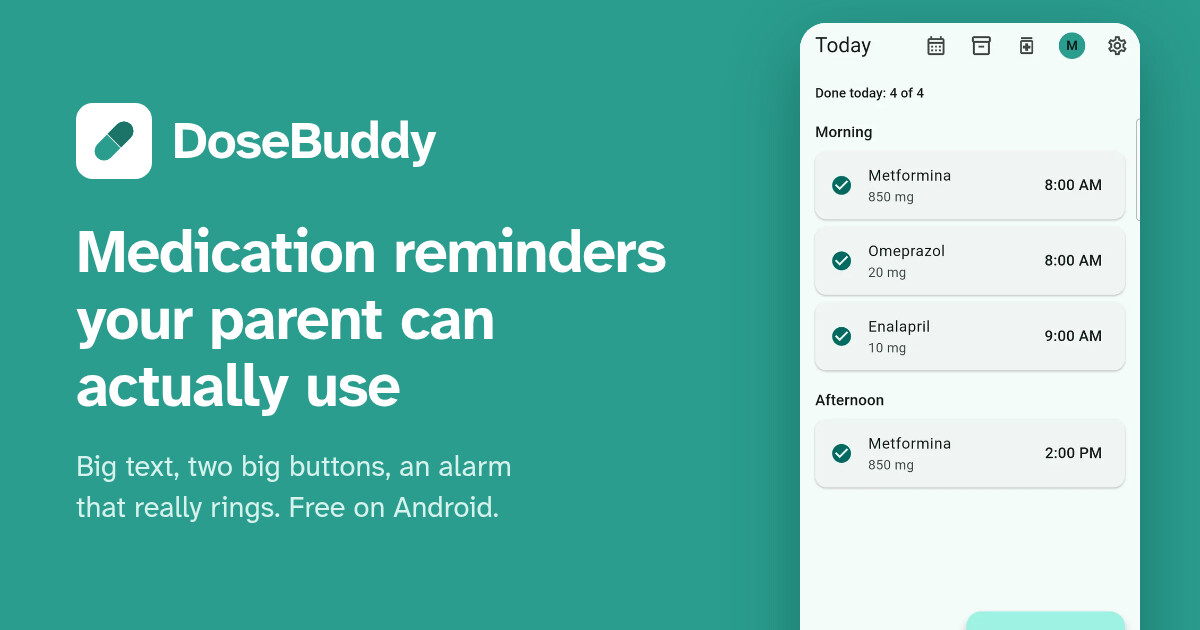
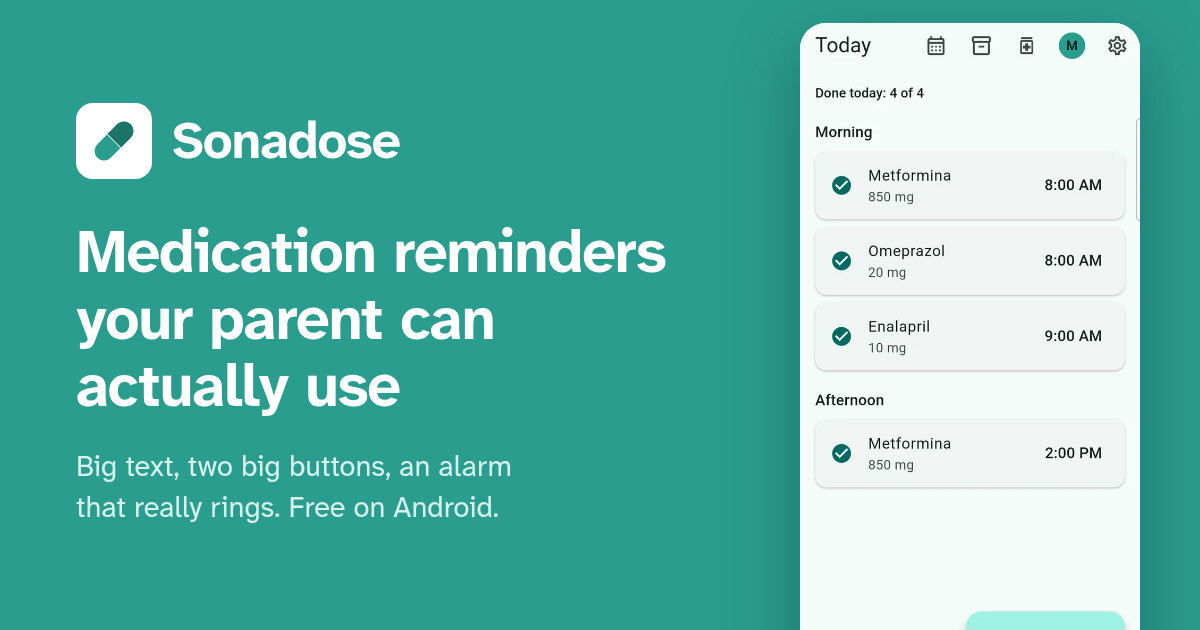
Finish the rename: what still said DoseBuddy in the present tense
The rebrand shipped, and these were left behind. Sorted by whether the old
name was a claim about now or a record of then — the first kind is corrected,
the second kept.

Corrected, because they were false today:

  404.html          title, brand and both language links, live on the site
  img/mark.svg      <title> and aria-label — the logo on every page, and the
                    name a screen reader reads out
  css/site.css      the design system's own header, name and domain
  js/ui.js          the usage example for the dormant video facade, which is
                    copied verbatim when a video is finally added
  api/app/main.py   module docstring and the OpenAPI title
  deploy/README.md  the file map named conf.d/10-dosebuddyapp.conf, which has
                    not existed since the rename, and 20-api.conf's hostname
  check-cert.sh     usage examples pointed at a host that no longer resolves,
  init-cert.sh      so a copy-paste failed; same for the PREPARE_ONLY hint

  docs/v1.1-api-contract.md  §0 gave the base as api.dosebuddyapp.com, retired
                    on 2026-08-21. The app track had already moved apiBaseUrl,
                    so nothing was broken by it — but this is the seam document
                    between the two tracks and it named a dead host. Recorded
                    as edition 15; the contract itself does not change.

Left alone, because they are true about the past: the migration runbook in
[…]

Changed region(s): [[0.1233, 0.181, 0.37, 0.2714]]

diff --git a/404.html b/404.html
@@ -3,7 +3,7 @@
 <head>
 <meta charset="utf-8">
 <meta name="viewport" content="width=device-width, initial-scale=1">
-<title>Page not found - DoseBuddy</title>
+<title>Page not found - Sonadose</title>
 <meta name="robots" content="noindex">
 <link rel="icon" href="/img/mark.svg" type="image/svg+xml">
 <meta name="theme-color" content="#2a9d8f">
@@ -15,7 +15,7 @@
   <div class="wrap">
     <a class="brand" href="/">
       <img src="/img/mark.svg" alt="" width="34" height="34">
-      <span>DoseBuddy</span>
+      <span>Sonadose</span>
     </a>
   </div>
 </header>
@@ -31,8 +31,8 @@
       Aquí no hay nada. La app está perfectamente; prueba con la página de inicio.
     </p>
     <p>
-      <a href="/">DoseBuddy in English</a> &nbsp;·&nbsp;
-      <a href="/es/" hreflang="es" lang="es">DoseBuddy en español</a>
+      <a href="/">Sonadose in English</a> &nbsp;·&nbsp;
+      <a href="/es/" hreflang="es" lang="es">Sonadose en español</a>
     </p>
   </div>
 </main>

diff --git a/css/site.css b/css/site.css
@@ -1,5 +1,5 @@
 /* ============================================================================
-   DoseBuddy - dosebuddyapp.com
+   Sonadose - sonadose.com
    Direction: "Pastillero", the visual language of a weekly pill organiser.
    The compartment (rounded cell with a lid edge) is the page's one signature
    shape: it carries the hero dose strip, the three setup steps and the cards.

diff --git a/js/ui.js b/js/ui.js
@@ -34,7 +34,7 @@
      else has to change:
 
        <div class="video" data-yt="VIDEO_ID" data-poster="/img/video-poster.webp"
-            data-label="Play the DoseBuddy overview"></div>
+            data-label="Play the Sonadose overview"></div>
 
      Nothing is requested from Google until the visitor clicks, and the embed
      then uses youtube-nocookie.com. */

diff --git a/tool/og-template.html b/tool/og-template.html
@@ -50,7 +50,7 @@
           <rect x="49.4" y="37.5" width="1.2" height="25" fill="#fff"/>
         </g>
       </svg>
-      <span>DoseBuddy</span>
+      <span>Sonadose</span>
     </div>
     <h1 class="en">Medication reminders your parent can actually use</h1>
     <h1 class="es">Un pastillero con alarma, en el móvil de tus padres</h1>

diff --git a/api/app/main.py b/api/app/main.py
@@ -1,4 +1,4 @@
-"""The DoseBuddy API.
+"""The Sonadose API.
 
 Skeleton only, on purpose. Auth, pairing and sync are not here: they follow the
 API contract in part 5 of the v1.1 spec, which is the agreed seam between this
@@ -55,7 +55,7 @@ def create_app(settings: Settings | None = None) -> FastAPI:
     setup_logging(settings)
 
     app = FastAPI(
-        title="DoseBuddy API",
+        title="Sonadose API",
         version=settings.version,
         lifespan=lifespan,
         docs_url="/docs" if settings.docs_enabled else None,

diff --git a/deploy/README.md b/deploy/README.md
@@ -19,7 +19,7 @@ the executable form of that claim, calibrated against the live Pages edge on
 | | On Pages | Here |
 |---|---|---|
 | TLS certificate | issued and renewed by GitHub | Let's Encrypt via the certbot sidecar |
-| `http` → `https` | automatic | `conf.d/10-dosebuddyapp.conf` |
+| `http` → `https` | automatic | `conf.d/10-sonadose.conf` |
 | `www` → apex, 301 | automatic | same, in one hop as before |
 | CDN | Fastly, global | **lost.** Single origin in eu-central-1 |
 | Web root | the whole repository | only the site (`site-exclude.txt`) |
@@ -35,8 +35,8 @@ the cutover and record the numbers next to the ones in the top-level `README.md`
 docker-compose.yml         nginx, certbot, postgres, redis, api
 env.example                what deploy/.env holds; .env itself is gitignored
 nginx/conf.d/00-common.conf        http-level settings, TLS params, catch-all vhost
-nginx/conf.d/10-dosebuddyapp.conf  the landing: four server blocks
-nginx/conf.d/20-api.conf           api.dosebuddyapp.com
+nginx/conf.d/10-sonadose.conf      the landing: four server blocks
+nginx/conf.d/20-api.conf           api.sonadose.com
 nginx/snippets/landing.conf        how the site is served
 site-include.txt           what the web root may contain (allow-list)
 init-cert.sh               first certificate for a hostname
